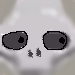
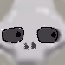
more inages

diff --git a/rougelike/main_code.py b/rougelike/main_code.py
@@ -277,7 +277,7 @@ def necromancer_skeleton_summon(necromancer_x, necromancer_y):
         on_field_enemies.append(enemy)
     else:
         for i in range(summon_amount):
-            enemy = Actor("skeleton_enemy_placeholder")
+            enemy = Actor("skeleton_enemy")
             enemy.type = "skeleton"
             enemy.distance_per_move = 3
             enemy.health = 1
